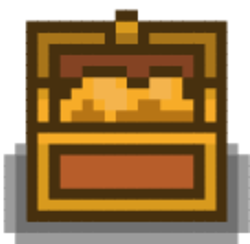
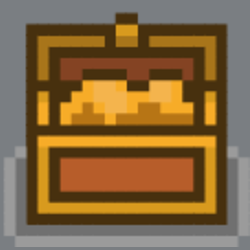
Changed treasure texture, added treasure opening animations //anton

diff --git a/src/viewer/GamePanel.java b/src/viewer/GamePanel.java
@@ -31,7 +31,7 @@ public class GamePanel extends JPanel{
 		LEFT,
 		RIGHT
 	}
-	//test
+	
 	// list with assets
 	private ArrayList<Asset> assets;
 	private static final int width = 640;
@@ -49,6 +49,7 @@ public class GamePanel extends JPanel{
     Wall wall = new Wall( x, y);
     Tile tile = new Tile( x, y);
     Treasure treasure = new Treasure( x, y);
+    Treasure openedtreasure = new Treasure(x,y,treasure.getOpenTreasurePath());
     Player player = new Player(x,y);
     
     public void readInlevel( String path) {
@@ -90,6 +91,11 @@ public class GamePanel extends JPanel{
 			   x= x+ SPACE;
 		   }
 		   
+		   //Load in opened treasures
+		   else if( assetSymbol == 'o') {
+			   g.drawImage(openedtreasure.getImage(), x, y,this);
+			   x= x+ SPACE;
+		   }
 		   
 		   // new row of Assets
 		   else if (assetSymbol =='\n') {
@@ -223,7 +229,7 @@ public class GamePanel extends JPanel{
 	private String moveObeject(String s, char asset, int newPos, int oldPos) {
 		char temp = s.charAt(newPos);
 		String tempString = s;
-		if(temp != '#' && temp != 't') {
+		if(temp != '#' && temp != 't' && temp!= 'o') { //remove o if we changed how opening treasure works
 			StringBuilder leveltemp = new StringBuilder(s);
 			//Asset at new pos
 			leveltemp.setCharAt(newPos, asset);
@@ -233,16 +239,19 @@ public class GamePanel extends JPanel{
 			tempString =  leveltemp.toString();
 		}
 		
-		//interacting with a chest, giving items etc TBD
+		//interacting with a chest, giving items etc TBD 'o' = opened chest
 		if(temp == 't') {
 			
 		System.out.println("interacting with a chest");
+		StringBuilder leveltemp = new StringBuilder(s);
+		leveltemp.setCharAt(newPos, 'o'); //replace t with o representing treasure is now opened at specific location
+		tempString =  leveltemp.toString();
 		
-		//chaning animation to open chest
+		//Treasure.OpenTreasure(level,newPos);
 		
-		Treasure.OpenTreasure();
+		
 		}
-		
+		System.out.println(tempString);
 		return tempString;
 	}
 	

diff --git a/src/assetclasses/Treasure.java b/src/assetclasses/Treasure.java
@@ -5,6 +5,8 @@ public class Treasure extends Asset{
 	//test
 	private static boolean TreasureIsOpen = false;
 	private final static  String path = "src/assets/closedtreasure.png";
+	private final static  String path2 = "src/assets/openedtreasure.png";
+	
 
 	
     public Treasure(int x, int y) {
@@ -13,8 +15,16 @@ public class Treasure extends Asset{
         
     }
     
-    public static void OpenTreasure() { 
-    	TreasureIsOpen = true;    	
+    public Treasure(int x, int y, String path) {
+        
+    	super(x, y, path);
+        
+    }  
+    
+    public String getOpenTreasurePath() { 
+    	
+    	return path2;
+    	//TreasureIsOpen = true;    	
     }
     
     
